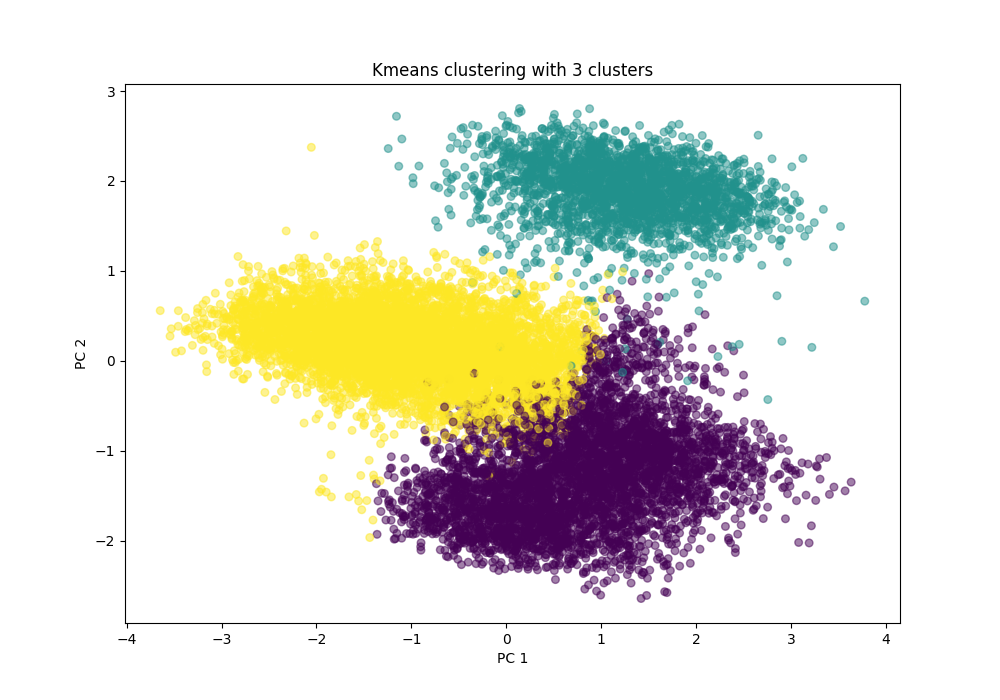
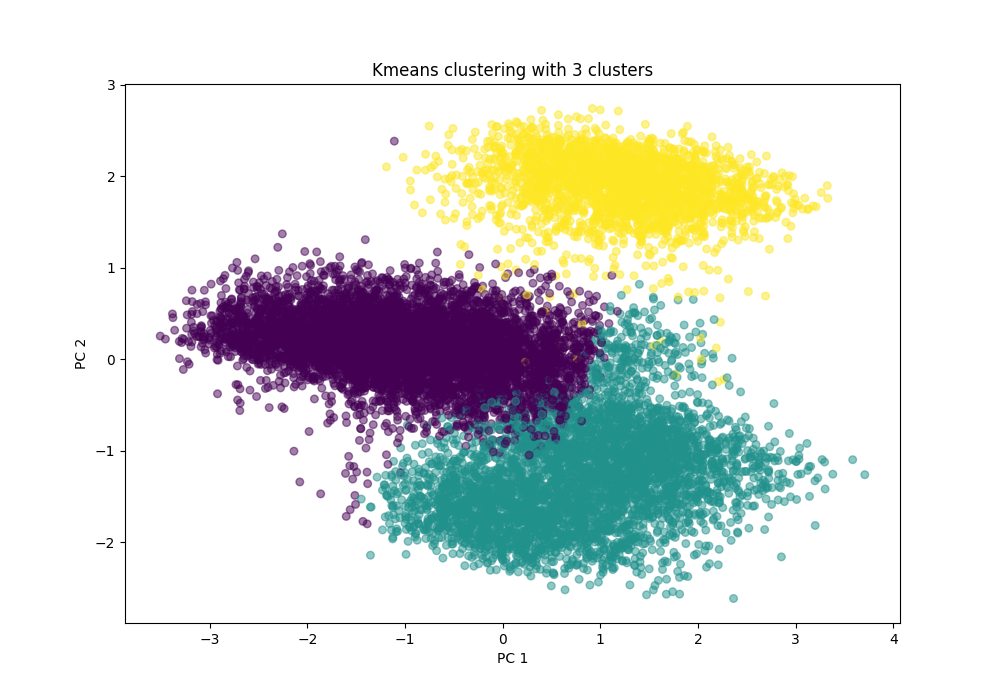
adding back clustering i accidentally deleted it

diff --git a/classification.py b/classification.py
@@ -1,0 +1,144 @@
+from sklearn.neighbors import KNeighborsClassifier
+from sklearn.metrics import accuracy_score, precision_score, recall_score, f1_score, roc_auc_score
+from sklearn.ensemble import RandomForestClassifier
+from xgboost import XGBClassifier
+from sklearn.feature_selection import mutual_info_classif
+import pandas as pd
+
+
+def feature_selection(data):
+    # This function performs feature selection
+
+    X_train, y_train, X_test, y_test = data
+
+    # Do Mutual Information (should only be done using training data)
+    mutual_info = mutual_info_classif(X_train, y_train)
+    mutual_info = pd.DataFrame({'score': mutual_info, 'feature': X_train.columns}).sort_values(by='score',
+                                                                                               ascending=False)
+
+    # We want to drop the worst features
+    num_features_to_drop = 4  # best results i got were with 4
+    worst_features = mutual_info.tail(num_features_to_drop)
+    worst_features = worst_features['feature'].values
+
+    return worst_features
+
+
+def xgboost_classifier(X_train, y_train, X_test, y_test):
+    # Map string labels to numeric values for XGBoost
+    y_train_mapped = y_train.map({"neutral or dissatisfied": 0, "satisfied": 1})
+    y_test_mapped = y_test.map({"neutral or dissatisfied": 0, "satisfied": 1})
+
+    # Initialize the XGBoost classifier
+    clf = XGBClassifier(
+        objective="binary:logistic",
+        random_state=42,
+        eval_metric="logloss",
+    )
+
+    # Fit the classifier to the training data
+    clf.fit(X_train, y_train_mapped)
+
+    # Make predictions on the test set
+    y_pred = clf.predict(X_test)
+    y_pred_proba = clf.predict_proba(X_test)[:, 1]
+
+    # Calculate evaluation metrics
+    accuracy = accuracy_score(y_test_mapped, y_pred)
+    precision = precision_score(y_test_mapped, y_pred)
+    recall = recall_score(y_test_mapped, y_pred)
+    f1 = f1_score(y_test_mapped, y_pred)
+    roc_auc = roc_auc_score(y_test_mapped, y_pred_proba)
+
+    return accuracy, precision, recall, f1, roc_auc
+
+
+def random_forest(X_train, y_train, X_test, y_test):
+    # Initialize the Random Forest classifier
+    clf = RandomForestClassifier(random_state=42)
+
+    # Fit the classifier to the training data
+    clf.fit(X_train, y_train)
+
+    # Make predictions on the test set
+    y_pred = clf.predict(X_test)
+    y_pred_proba = clf.predict_proba(X_test)[:, 1]
+
+    # Calculate evaluation metrics
+    accuracy = accuracy_score(y_test, y_pred)
+    precision = precision_score(y_test, y_pred, pos_label="satisfied")
+    recall = recall_score(y_test, y_pred, pos_label="satisfied")
+    f1 = f1_score(y_test, y_pred, pos_label="satisfied")
+    roc_auc = roc_auc_score(y_test.map({"neutral or dissatisfied": 0, "satisfied": 1}), y_pred_proba)
+
+    # Return metrics
+    return accuracy, precision, recall, f1, roc_auc
+
+
+def KNN(X_train, y_train, X_test, y_test, k=3):
+    # Initialize the KNN classifier with k neighbors
+    knn = KNeighborsClassifier(n_neighbors=k)
+
+    # Fit the model on the training set
+    knn.fit(X_train, y_train)
+
+    # Predict on the test set
+    y_pred = knn.predict(X_test)
+    y_proba = knn.predict_proba(X_test)[:, 1] if hasattr(knn, "predict_proba") else None
+
+    # Evaluate metrics
+    accuracy = accuracy_score(y_test, y_pred)
+    precision = precision_score(y_test, y_pred, pos_label="satisfied")
+    recall = recall_score(y_test, y_pred, pos_label="satisfied")
+    f1 = f1_score(y_test, y_pred, pos_label="satisfied")
+    auc_roc = roc_auc_score(y_test.map({"neutral or dissatisfied": 0, "satisfied": 1}),
+                            y_proba) if y_proba is not None else None
+
+    return accuracy, precision, recall, f1, auc_roc
+
+
+def classification(dataset):
+    X_train, y_train, X_test, y_test = dataset
+
+    # Perform feature selection (should be applied to both train and test data)
+    worst_features = feature_selection(dataset)
+    X_train_MI = X_train.drop(worst_features, axis=1)
+    X_test_MI = X_test.drop(worst_features, axis=1)
+
+    # Train and test the KNN Model
+    '''k_values = [1, 3, 5, 7, 15, 50]
+
+    print("Model Evaluation on KNN:\n")
+    for k in k_values:
+        accuracy, precision, recall, f1, auc_roc = KNN(X_train, y_train, X_test, y_test, k=k)
+        print(f"KNN with k={k}:")
+        print(f"  Accuracy:  {accuracy:.2f}")
+        print(f"  Precision: {precision:.2f}")
+        print(f"  Recall:    {recall:.2f}")
+        print(f"  F1-Score:  {f1:.2f}")
+        if auc_roc is not None:
+            print(f"  AUC-ROC:   {auc_roc:.2f}")
+        print("\n")'''
+
+    '''# Train and test the randomForest model
+    print("Model Evaluation on Random Forest:\n")
+    accuracy, precision, recall, f1, auc_roc = random_forest(X_train, y_train, X_test, y_test)
+    print(f"  Accuracy:  {accuracy:.2f}")
+    print(f"  Precision: {precision:.2f}")
+    print(f"  Recall:    {recall:.2f}")
+    print(f"  F1-Score:  {f1:.2f}")'''
+
+    # Train and test the XGBoost model
+    print("Model Evaluation on XGBoost WITHOUT feature selection:\n")
+    accuracy, precision, recall, f1, auc_roc = xgboost_classifier(X_train, y_train, X_test, y_test)
+    print(f"  Accuracy:  {accuracy:.2f}")
+    print(f"  Precision: {precision:.2f}")
+    print(f"  Recall:    {recall:.2f}")
+    print(f"  F1-Score:  {f1:.2f}")
+
+    print("\nModel Evaluation on XGBoost WITH feature selection (Mutual Information):\n")
+    accuracy, precision, recall, f1, auc_roc = xgboost_classifier(X_train_MI, y_train, X_test_MI, y_test)
+    print(f"  Accuracy:  {accuracy:.2f}")
+    print(f"  Precision: {precision:.2f}")
+    print(f"  Recall:    {recall:.2f}")
+    print(f"  F1-Score:  {f1:.2f}")

diff --git a/outlier_detection.py b/outlier_detection.py
@@ -36,6 +36,10 @@ def LOF_detection(pca_data, remove_outliers=False):
   # This function detects outliers and can remove them if desired, via LOF.
   # Also visualizes the outliers in 2 dimensions.
 
+  # LOF needs to be scaled because it relies on distance based metrics.
+  scaled_data = StandardScaler().fit_transform(pca_data)
+  pca_data.iloc[:, :] = scaled_data
+
   # detect outliers
   outliers = LocalOutlierFactor(n_neighbors=20, contamination=0.01).fit_predict(pca_data)
 
@@ -67,6 +71,10 @@ def LOF_detection(pca_data, remove_outliers=False):
 def isolation_forest_detection(data, remove_outliers=False):
   # This function detects outliers via IsolationForest and can remove them if desired.
   # visualizes the outliers.
+
+  # We scale here because we scaled LOF
+  scaled_data = StandardScaler().fit_transform(data)
+  data.iloc[:, :] = scaled_data
   
   # Do outlier detection on data
   outliers = IsolationForest(contamination=0.01).fit_predict(data)

diff --git a/README.md b/README.md
@@ -77,6 +77,19 @@ The heatmap also identifies a consistent correlation disparity between the diffe
 
 ## Outlier Detection
 
+Outlier detection is the removal of datapoints that signficantly deviate from the main distribution of data. To do this task, we leveraged the use of Local Outlier Factor (LOF) and Isolation forest methods. Using the preprocessed data, we fit each of the datasets to their specified and reduce data dimensionality to two dimensions using Principal Component Analysis (PCA). Following dimensionality reduction, we plot a scattleplot the results of each method by separating the data into respective dataframes of inliers and outliers, distinguishing dataframe membership by colour (green and red, respectively).
+
+### LOF
+
+<img src="Analysis/Figures/LOF.png" alt="Project Diagram" width="400"/>
+
+### Isolation Forest
+
+<img src="Analysis/Figures/isolation_forest_outliers.png" alt="Project Diagram" width="400"/>
+
+The results of each outlier detection method were not particularily useful.
+
+
 ## Clustering
 
 ## Feature selection
